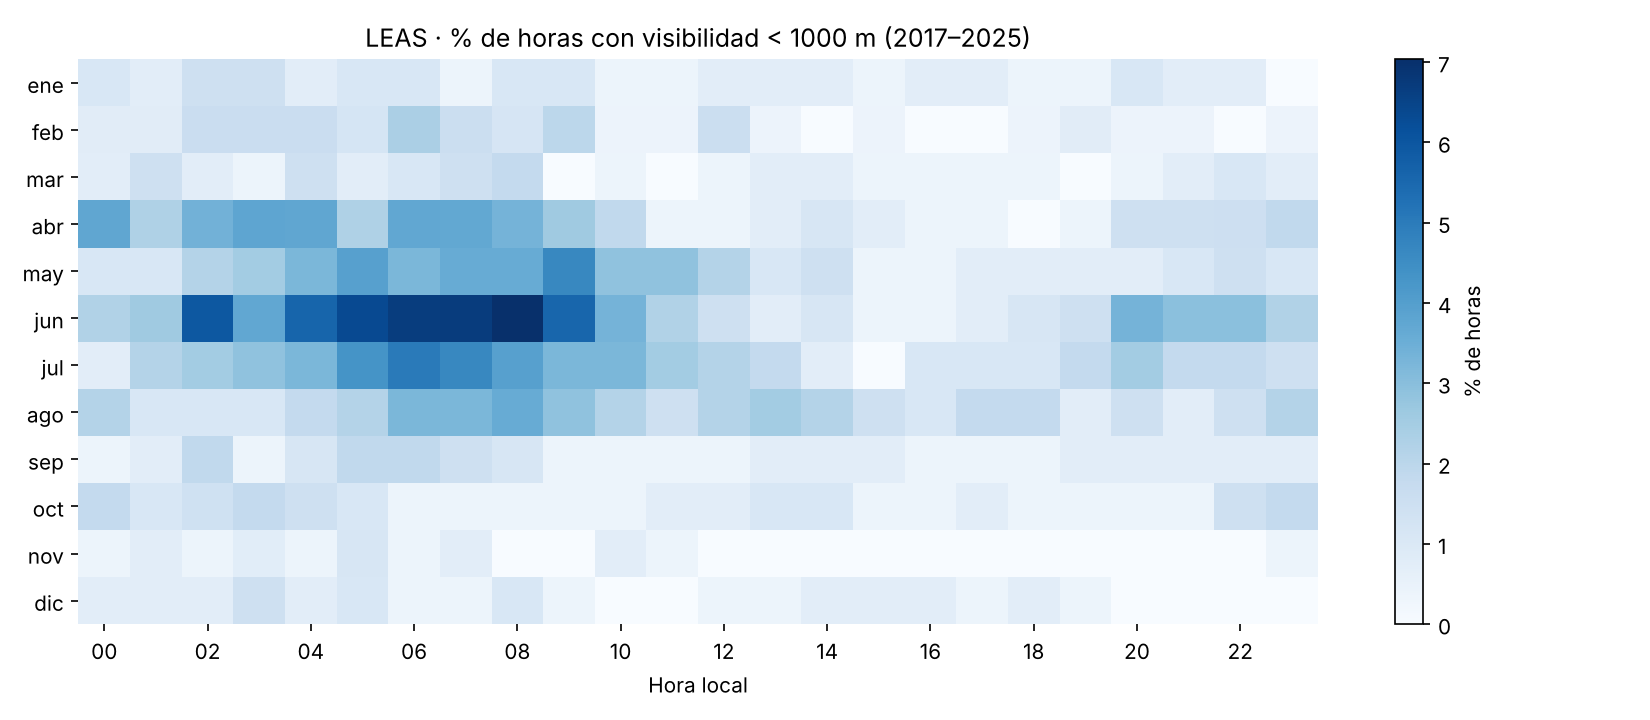
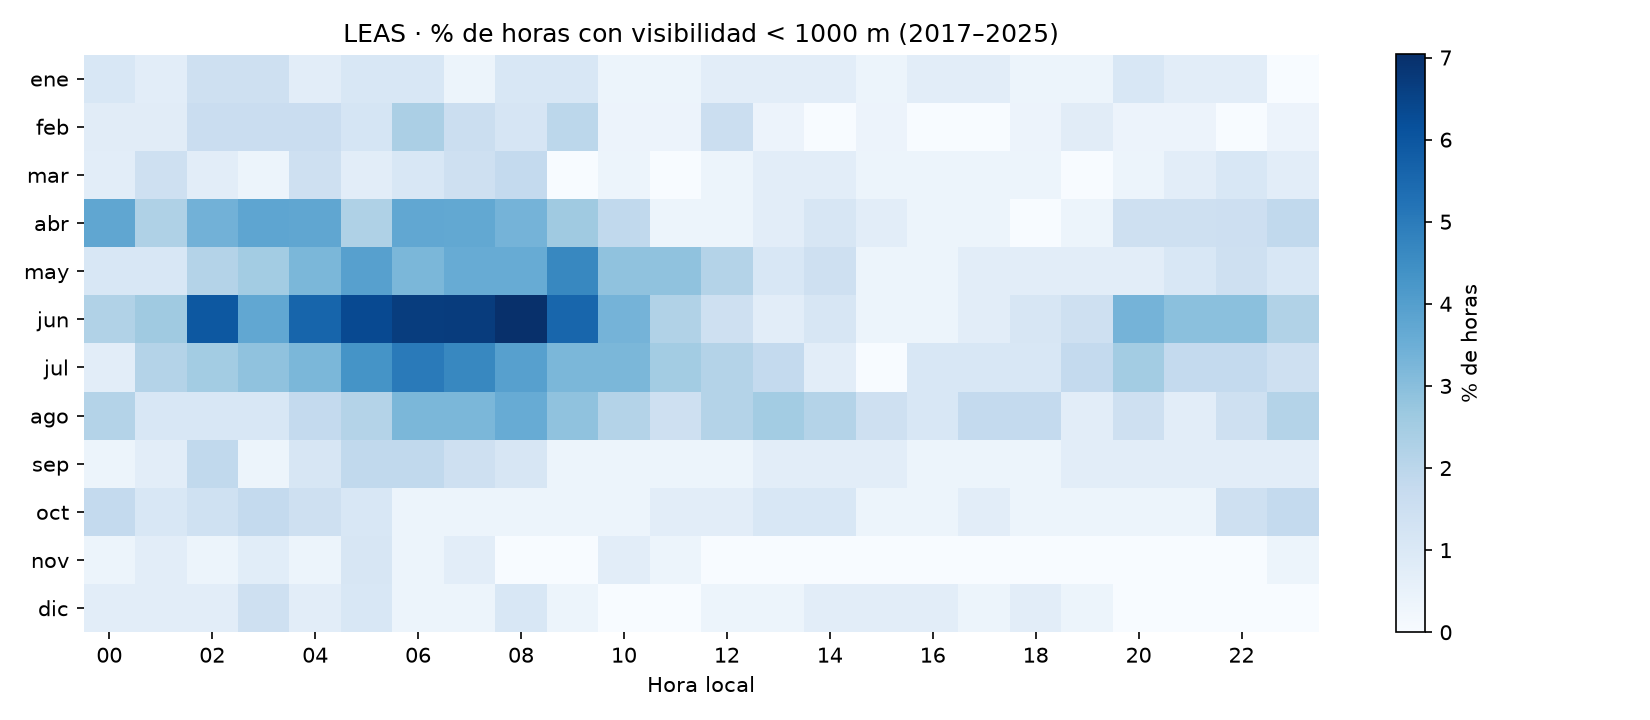
NOVOK v2: pronóstico numérico sin fugas, +30-50% de CSI a 6-12 h

diff --git a/src/novok/data/descargar_nwp.py b/src/novok/data/descargar_nwp.py
@@ -126,7 +126,7 @@ def descargar() -> pd.DataFrame:
     for p in partes:
         clave = p.columns[0].split("_")[1]
         por_modelo.setdefault(clave, []).append(p)
-    nwp = pd.concat([pd.concat(v).sort_index() for v in por_modelo.values()], axis=1)
+    nwp = pd.concat([pd.concat(v).sort_index() for v in por_modelo.values()], axis=1, sort=True)
     nwp = nwp[~nwp.index.duplicated()].sort_index()
     nwp.to_parquet(DATA_PROCESSED / "nwp.parquet")
     print(f"\nNWP: {len(nwp):,} horas · columnas: {', '.join(nwp.columns)}")

diff --git a/README.md b/README.md
@@ -28,7 +28,7 @@ y un marcador público contra el TAF.
 | F0 | Repositorio, estructura, CI | ✅ |
 | F1 | Datos: METAR histórico, limpieza y análisis exploratorio | ✅ |
 | F2 | Baselines (persistencia, climatología, TAF) | 🔄 persistencia y climatología ✅ · TAF grabándose en directo |
-| F3 | Modelo: niebla + techo de nubes | 🔄 v1 solo con METAR ✅ · falta añadir pronósticos numéricos |
+| F3 | Modelo: niebla + techo de nubes | ✅ v1 (METAR) y v2 (METAR + pronóstico numérico) |
 | F4 | Hora de disipación y tipo de niebla | ⏳ |
 | F5 | Aplicación web en vivo + briefing operativo (niebla, techo y viento en pista) | ⏳ |
 
@@ -111,7 +111,7 @@ año Y se entrena con los años anteriores y el umbral de decisión se elige en 
 - Lo que más pesa ([importancia SHAP](reports/modelo_importancia.png)): humedad, temperatura, época del año y la
   componente oeste del viento — el aire que llega del mar, coherente con la niebla de advección.
 
-## NOVOK v2: + pronóstico numérico (F3, en curso)
+## NOVOK v2: + pronóstico numérico (F3)
 
 Se añaden pronósticos de modelos meteorológicos (ECMWF IFS desde 2024, JMA GSM desde 2018) de la API
 **Previous Runs** de Open-Meteo, usando **el pronóstico emitido ~24 h antes** de cada hora (`_previous_day1`).
@@ -125,6 +125,25 @@ objetivo; cambio previsto respecto a ahora; y error actual del modelo frente al 
 
 v1 y v2 se entrenan con las mismas filas y la misma validación por años; los resultados se separan para
 2024–2025, los únicos años con ECMWF.
+
+![v1 frente a v2](reports/modelo_v2_csi.png)
+
+**CSI en 2024–2025 (mismas horas para todos):**
+
+| Antelación | Niebla v1 | Niebla v2 | Persistencia | Bajo mínimos v1 | Bajo mínimos v2 | Persistencia |
+|---|---|---|---|---|---|---|
+| 1 h | 0,34 | 0,34 | 0,31 | 0,32 | 0,36 | 0,38 |
+| 3 h | 0,22 | 0,24 | 0,18 | 0,24 | 0,27 | 0,24 |
+| 6 h | 0,14 | **0,18** | 0,11 | 0,16 | **0,20** | 0,16 |
+| 12 h | 0,08 | **0,12** | 0,03 | 0,12 | **0,17** | 0,07 |
+
+- El pronóstico numérico aporta donde la v1 no llegaba: **+30–50 % de CSI a 6–12 h**, y la habilidad
+  probabilística a 12 h pasa de +0,02 a +0,06 (niebla) y de +0,05 a +0,09 (bajo mínimos).
+- A 1 h no cambia: manda lo que dice el METAR. En bajo mínimos a 1 h la persistencia sigue siendo
+  ligeramente mejor.
+- Cautela: dos años de prueba y valores absolutos bajos; la mejora es consistente en los cuatro casos de 6–12 h.
+- Variables disponibles en el archivo de pasadas anteriores: temperatura, rocío, humedad, viento, nubosidad
+  total, presión y precipitación (no hay nubes bajas ni visibilidad).
 
 ## Puesta en marcha
 
